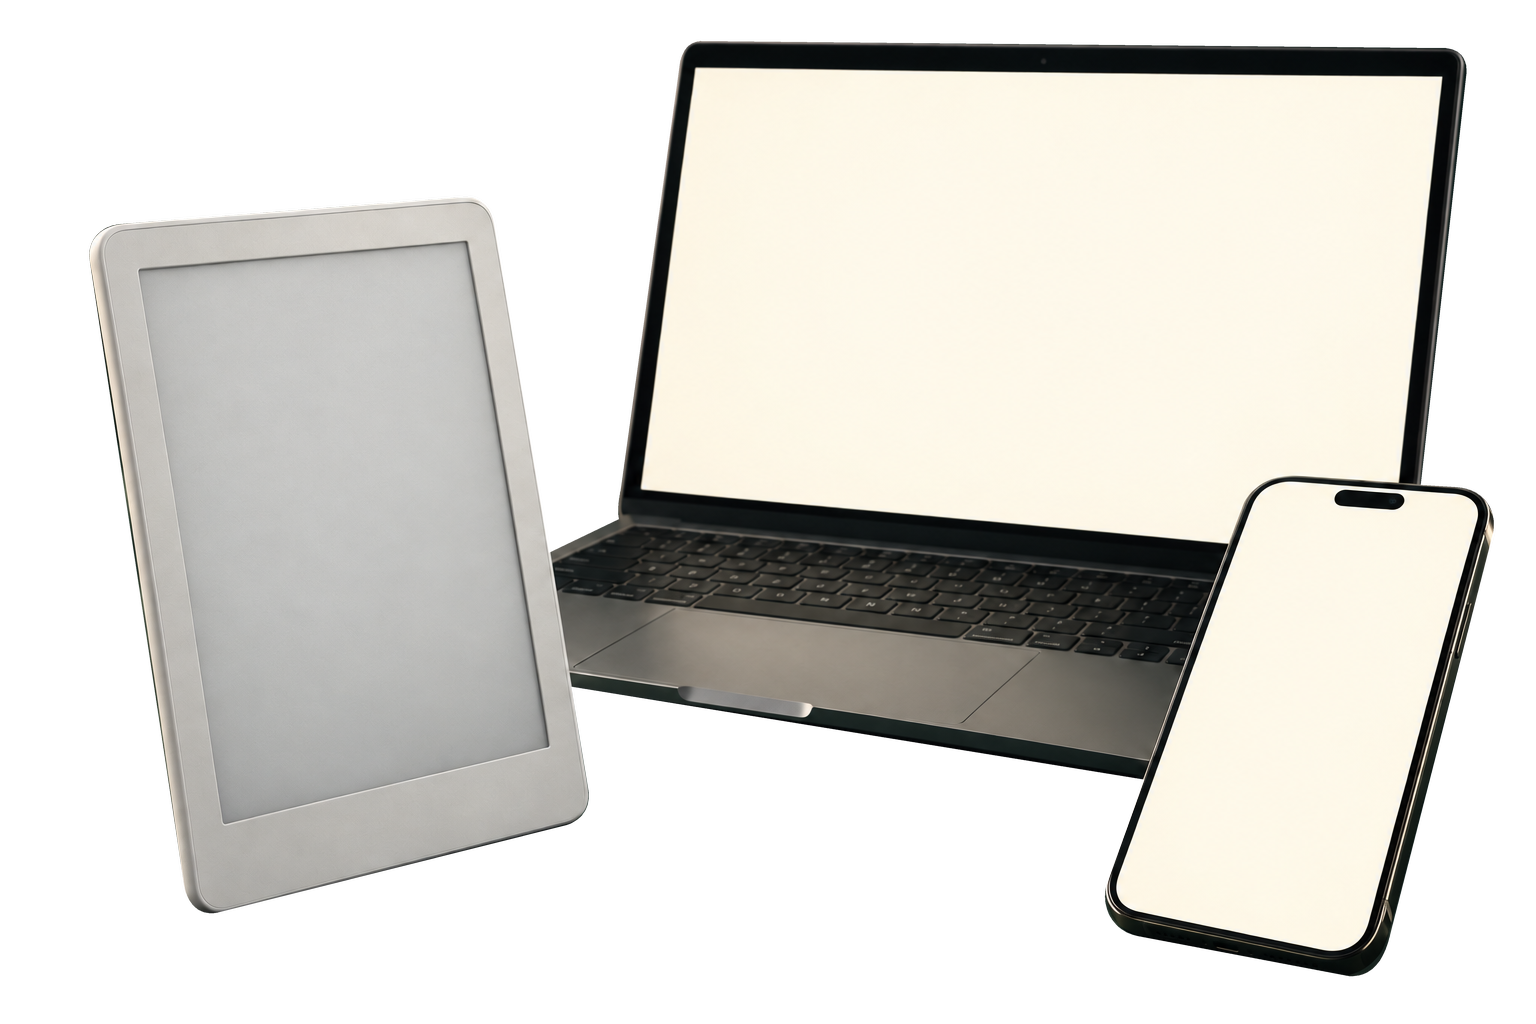
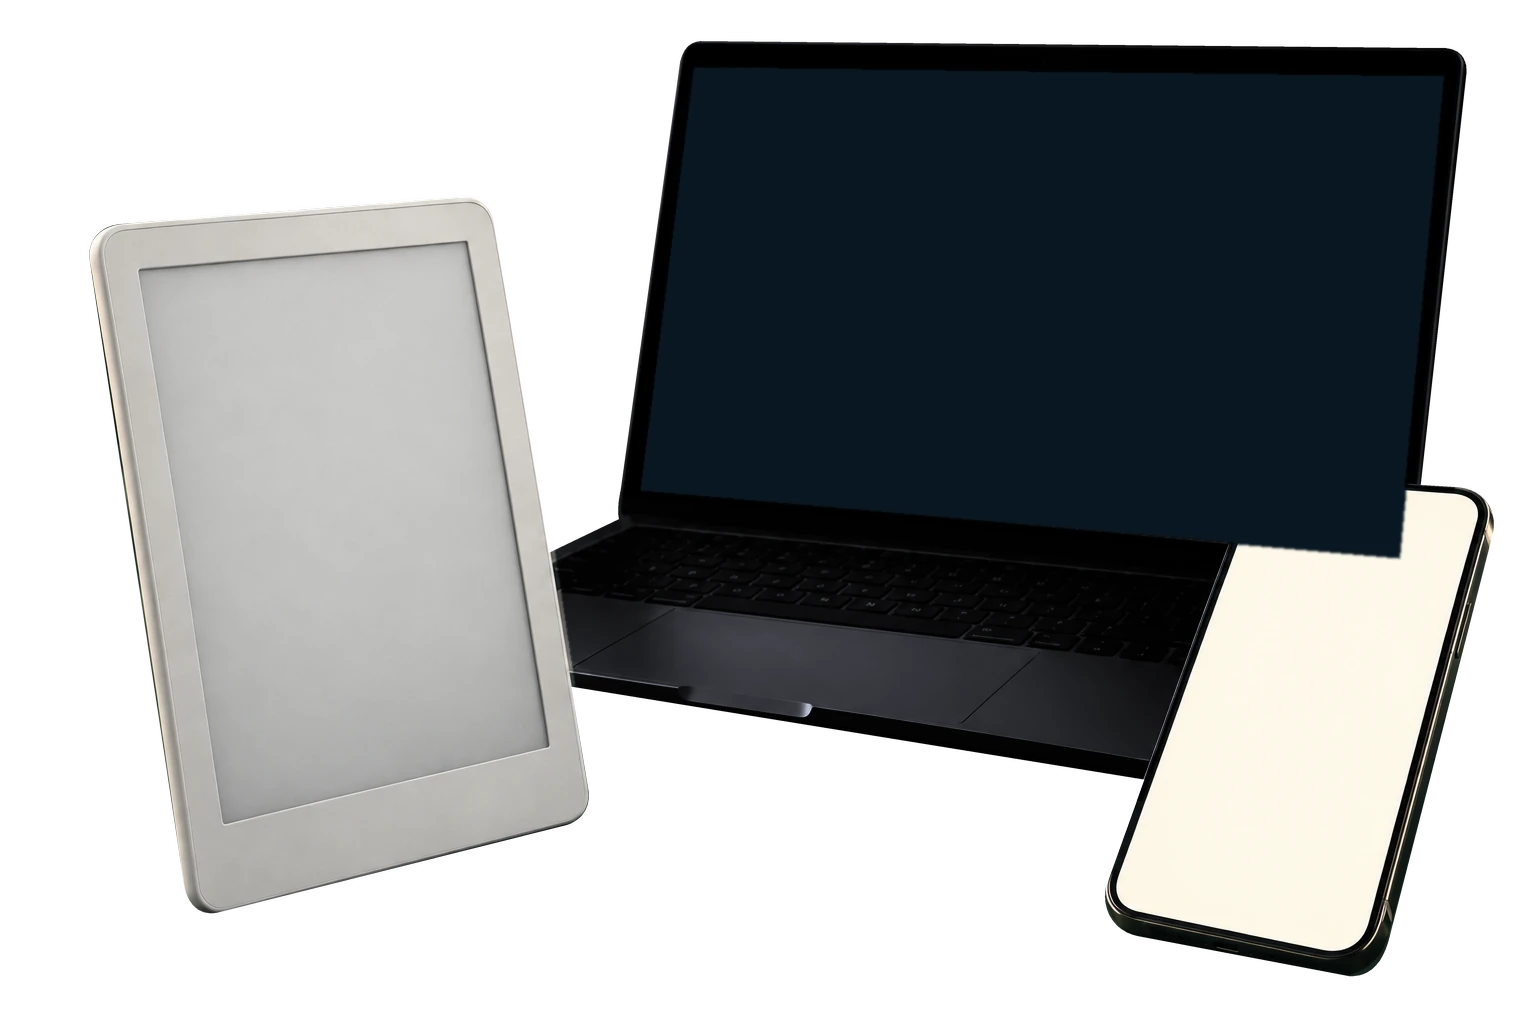
About illustration: the laptop as a dark MacBook Air, without the white jacket edge
The reveal's device photo is a silver laptop with its screens filled cream; the
lit screen layers are projected a pixel or two inside those fills, so the cream
showed as a bright hairline along the top and left of the laptop screen -- the
white jacket edge Anders reported.

scripts/retouch-about-devices.py repaints the laptop screen's fill in the
library screen's own navy, so a sliver of it reads as screen rather than paper,
and runs the laptop body (not the e-reader, not the phone, not the screens)
through a tone curve that keeps blacks black, pulls the silver deck and
trackpad down to midnight grey and holds the specular edges. The e-reader leans
against the laptop's left front corner; the seam between the two silver bodies
is followed exactly so no wedge of silver deck survives.

The photo is re-encoded lossy: 628 KB -> 51 KB, with no visible change at the
alpha edges.

Claude-Session: https://claude.ai/code/session_01K5bL9oWzAagjTMExsyUADi

Changed region(s): [[0.3438, 0.0312, 0.9688, 0.75]]

diff --git a/app/scripts/retouch-about-devices.py b/app/scripts/retouch-about-devices.py
@@ -1,0 +1,122 @@
+#!/usr/bin/env python3
+"""Retouch the about page's device photo, assets/about-v20/assets/devices-transparent-v10.webp.
+
+Two edits, both asked for on 2026-09-12:
+
+1. **The laptop reads as a dark, modern MacBook Air.** The stock photo is a silver machine.
+   Every laptop pixel that is not screen, e-reader or phone runs through a tone curve that keeps
+   blacks black, pulls the silver deck down to a midnight grey and leaves the specular highlights
+   along the lid and front lip, with a faint cool cast. The keyboard is already black and barely
+   moves; what changes is the deck, the trackpad, the front lip and the lid's side edges.
+
+2. **No white jacket edge along the top of the screen.** The screens in the photo are filled
+   cream; the lit screen layers (screen-*-v1.webp) are projected over them and land a pixel or two
+   inside, so the cream fill showed as a bright hairline along the top and left of the laptop
+   screen. The laptop's fill is repainted in the library screen's own dark navy, so any sliver
+   that shows is the colour of the screen behind it rather than a white edge.
+
+This is a **one-off retouch, not idempotent**: it must run against the original photo, not against
+its own output. The original is the blob at commit 3d26cdca:
+
+    git show 3d26cdca:app/public/assets/about-v20/assets/devices-transparent-v10.webp > /tmp/devices.webp
+    python3 scripts/retouch-about-devices.py /tmp/devices.webp
+
+With no argument it reads (and overwrites) the checked-in file, which is only correct if that file
+is still the original. Needs Pillow.  Run from app/.
+"""
+import sys
+from pathlib import Path
+
+from PIL import Image, ImageDraw, ImageFilter
+
+HERE = Path(__file__).resolve().parent
+TARGET = HERE.parent / 'public/assets/about-v20/assets/devices-transparent-v10.webp'
+SRC = Path(sys.argv[1]) if len(sys.argv) > 1 else TARGET
+
+# The laptop, as a polygon over the 1536x1024 photo: lid, hinge, deck and front lip. The left
+# boundary runs down the right of the e-reader, which leans in front of the laptop's hinge.
+LAPTOP = [(668, 22), (1500, 36), (1500, 120), (1452, 500), (1215, 800), (1080, 800),
+          (640, 715), (520, 665), (520, 440), (612, 452)]
+
+# The e-reader leans in front of the laptop's left front corner; the two silver bodies touch along
+# a seam that runs x = 536 + 0.154*(y-450) in the photo. Everything left of it is the e-reader and
+# keeps its colour.
+EREADER = [(40, 170), (499, 182), (608, 912), (110, 950)]
+
+# The phone sits in front of the laptop's bottom right. Its screen corners (the same four points
+# the screen layers are projected onto), outset by 4 px so the curve stops just inside the phone's
+# black frame rather than leaving an undarkened halo around it.
+PHONE_SCREEN = [(1261, 481), (1483, 497), (1361, 954), (1110, 904)]
+
+# The laptop screen's cream fill: the screen corners, grown a little so the antialiased rim of the
+# fill is repainted too.
+SCREEN = [(695, 68), (1442, 77), (1396, 555), (642, 489)]
+SCREEN_NAVY = (9, 23, 34)
+
+
+def outset(points, m):
+    """Move every vertex of a convex polygon m px along its outward angle bisector."""
+    out = []
+    n = len(points)
+    for i, (x, y) in enumerate(points):
+        px, py = points[(i - 1) % n]
+        nx, ny = points[(i + 1) % n]
+        ux, uy = px - x, py - y
+        vx, vy = nx - x, ny - y
+        ul = (ux * ux + uy * uy) ** .5 or 1
+        vl = (vx * vx + vy * vy) ** .5 or 1
+        ux, uy, vx, vy = ux / ul, uy / ul, vx / vl, vy / vl
+        bx, by = ux + vx, uy + vy
+        bl = (bx * bx + by * by) ** .5
+        if bl < 1e-6:
+            out.append((x, y))
+            continue
+        half = max(bl / 2, .2)          # sin of half the interior angle
+        out.append((x - bx / bl * m / half, y - by / bl * m / half))
+    return out
+
+
+def mask(size, polys, blur=0):
+    m = Image.new('L', size, 0)
+    d = ImageDraw.Draw(m)
+    for poly, value in polys:
+        d.polygon([(round(x), round(y)) for x, y in poly], fill=value)
+    return m.filter(ImageFilter.GaussianBlur(blur)) if blur else m
+
+
+def main():
+    im = Image.open(SRC).convert('RGBA')
+    w, h = im.size
+    assert (w, h) == (1536, 1024), im.size
+
+    # 1. The laptop screen's cream fill -> the library screen's navy.
+    navy = Image.new('RGBA', (w, h), SCREEN_NAVY + (255,))
+    im = Image.composite(navy, im, mask((w, h), [(outset(SCREEN, 3), 255)], blur=1.2))
+
+    # 2. The laptop body, minus the screen, the phone and the e-reader, through the tone curve.
+    body = mask((w, h), [(LAPTOP, 255), (EREADER, 0), (outset(SCREEN, 1), 0), (outset(PHONE_SCREEN, 4), 0)], blur=.8)
+
+    px = im.load()
+    bp = body.load()
+    for y in range(h):
+        for x in range(w):
+            k = bp[x, y]
+            if not k:
+                continue
+            r, g, b, a = px[x, y]
+            if not a:
+                continue
+            lum = (.299 * r + .587 * g + .114 * b) / 255
+            # Keep black black, land the silver deck (~.5) near .18, and hold the specular edges.
+            out = lum ** 1.95 * .74 + max(0., lum - .86) * 1.35
+            f = k / 255
+            nr = r + (min(255, out * 255 * .94) - r) * f
+            ng = g + (min(255, out * 255 * .97) - g) * f
+            nb = b + (min(255, out * 255 * 1.08) - b) * f
+            px[x, y] = (round(nr), round(ng), round(nb), a)
+
+    im.save(TARGET, 'WEBP', quality=90, method=6)
+    print(f'wrote {TARGET.relative_to(HERE.parent.parent)} ({TARGET.stat().st_size // 1024} KB)')
+
+
+main()
